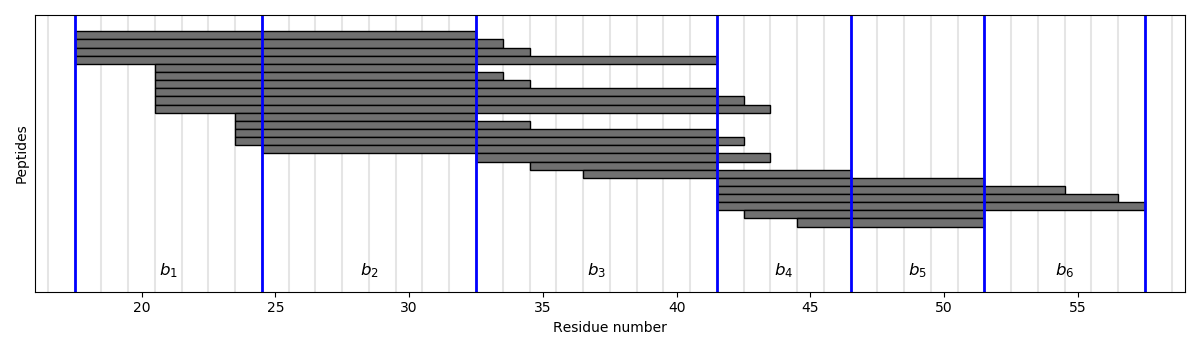
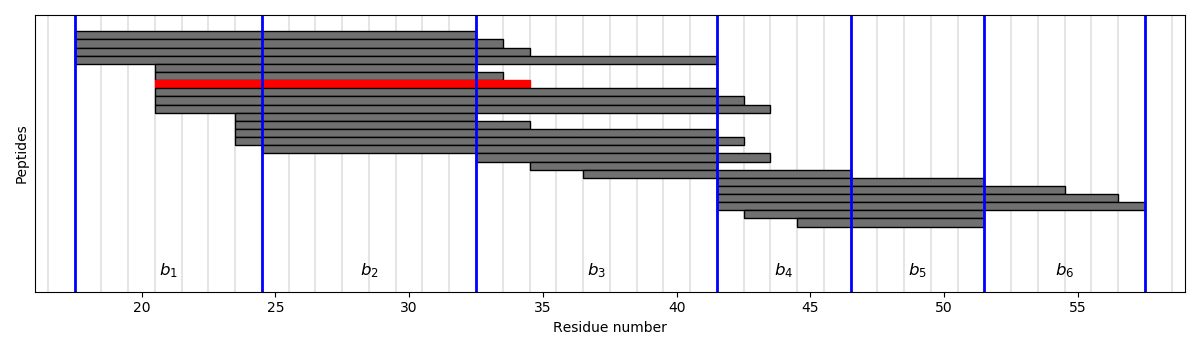
updated fitting docs

Changed region(s): [[0.1233, 0.2286, 0.4625, 0.2571]]

diff --git a/docs/figures/fitting_blocks.py b/docs/figures/fitting_blocks.py
@@ -51,8 +51,9 @@ plt.savefig('Blocks_original.png', dpi=300)
 fig, ax = plt.subplots(1, figsize=(12, 3.5))
 plot_peptides(cov, len(cov), ax, color=False)
 red_blocks = get_reduced_blocks(cov)
-print(np.sum(red_blocks))
+
 positions = np.cumsum(red_blocks) + cov.start
 positions = np.insert(positions, 0, cov.start) - 0.5
+rect = ax.patches[6].set_color('r')
 add_blocks(ax, positions, 'b')
 plt.savefig('Blocks_reduced')

diff --git a/docs/fitting.rst b/docs/fitting.rst
@@ -74,3 +74,27 @@ where the timepoints sufficiently cover these exchange rates. In this scenario, 
 kinetic rates by fitting the uptake curve, it is impossible to assign these kinetics rates to individual amino acids. This
 is referred to as the non-identifyability issue (XX REF) and this can only be overcome by increasing the number of peptides
 such that each amino acid occurs in a unique set of peptides.
+
+
+Building the model
+------------------
+
+In the global fitting step, a model is defined for each peptide which is build from global fitting parameters as defined
+by the blocks of residues as defined in :numref:`blocks_reduced`. The deuterium uptake of block :math:`b_1` is approximated
+by a two-component association model:
+
+.. math::
+    D_{1}(t) = 100*(1 - r*e^{-k_{1,1}*t} - (1 - r) e^{-k_{1,2}*t})
+
+Where :math:`k_{0,1}` and :math:`k_{1,1}` are the first and second exchange rates for block `b_0`, respectively.
+
+If we consider the peptide marked in red in :numref:`blocks_reduced` we can see it has a total length of 14 amino acids,
+with 4 residues in block :math:`b_1`, 8 residues in block :math:`b_2` and 2 residues in block :math:`b_3`. The deuterium
+uptake is the modelled by:
+(perhaps this P needs another label)
+
+.. math::
+    P_{6}(t) = \frac{4}{14} D_{0}(t) + \frac{8}{14} D_{1}(t) + \frac{2}{14} D_{2}(t)
+
+Where :math:`P_{6}(t)` is the deuterium uptake of peptide 6 at time :math:`t`
+
